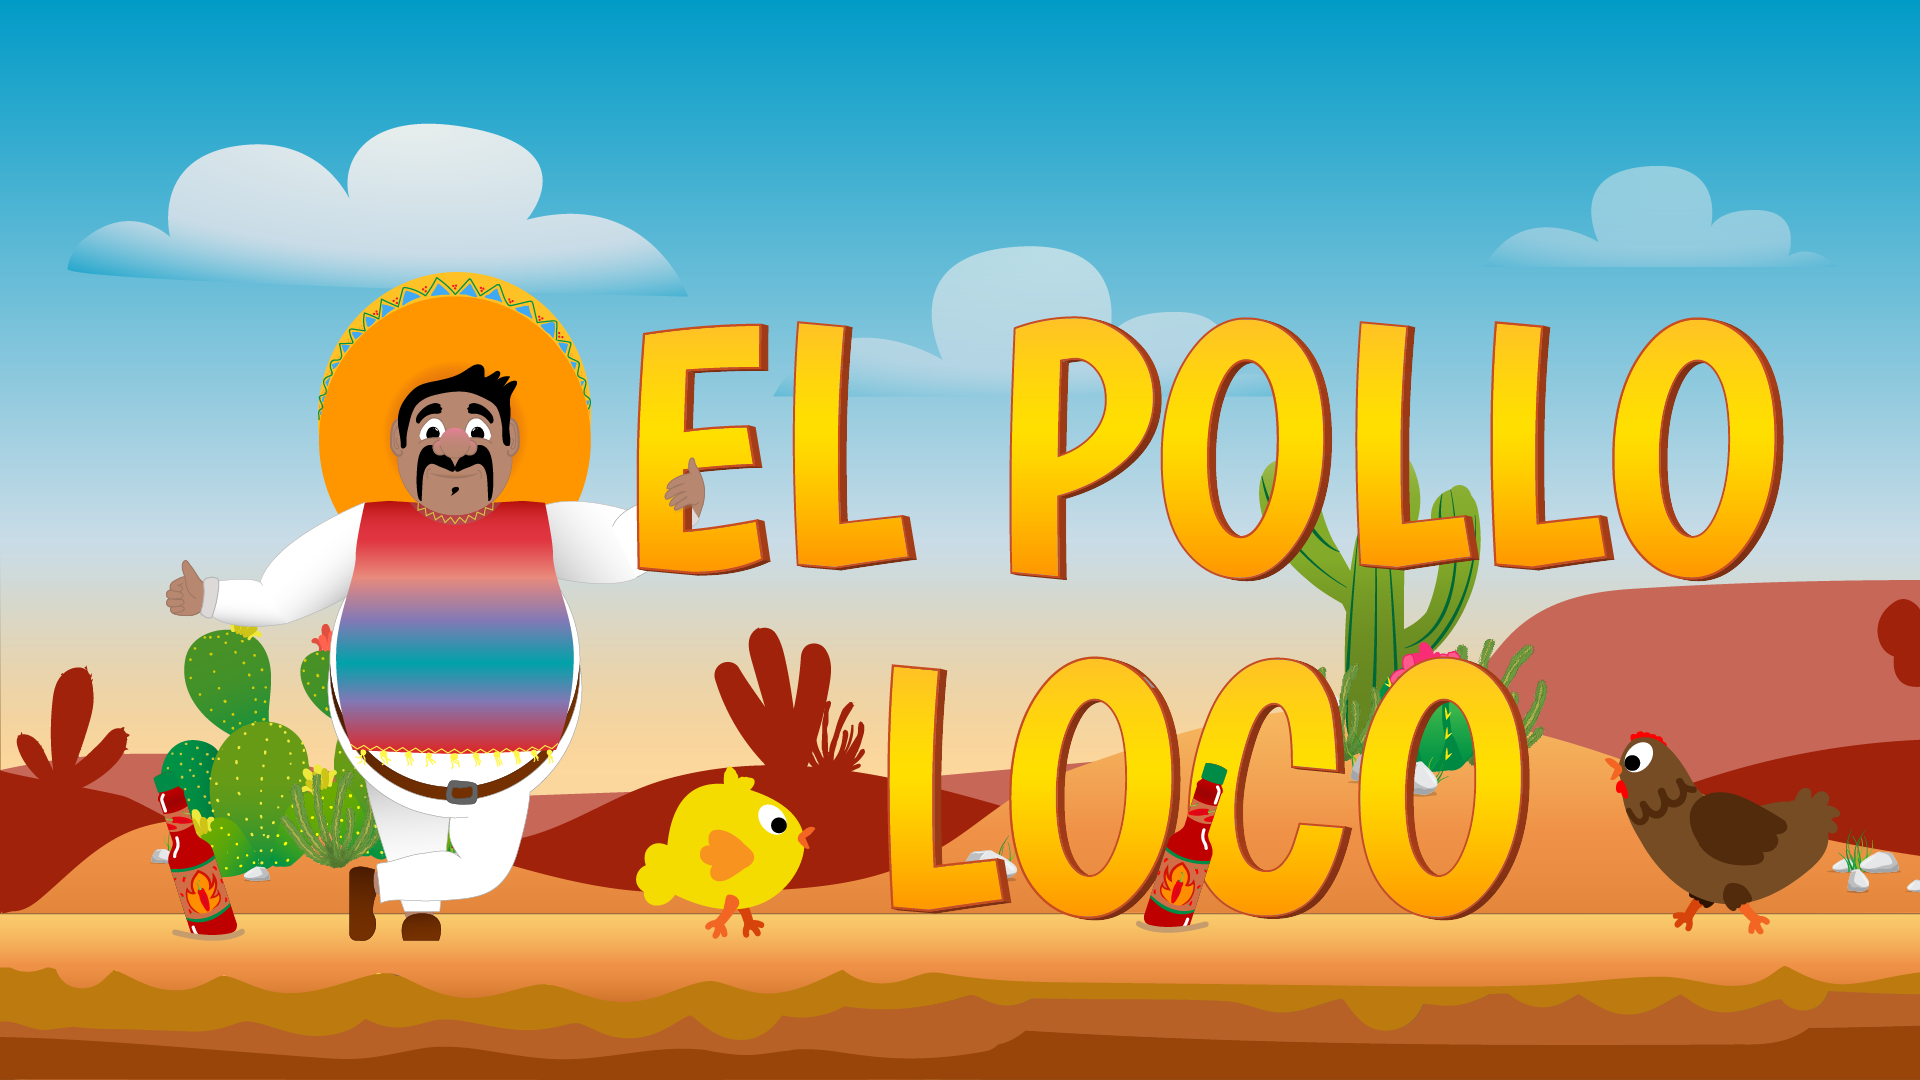
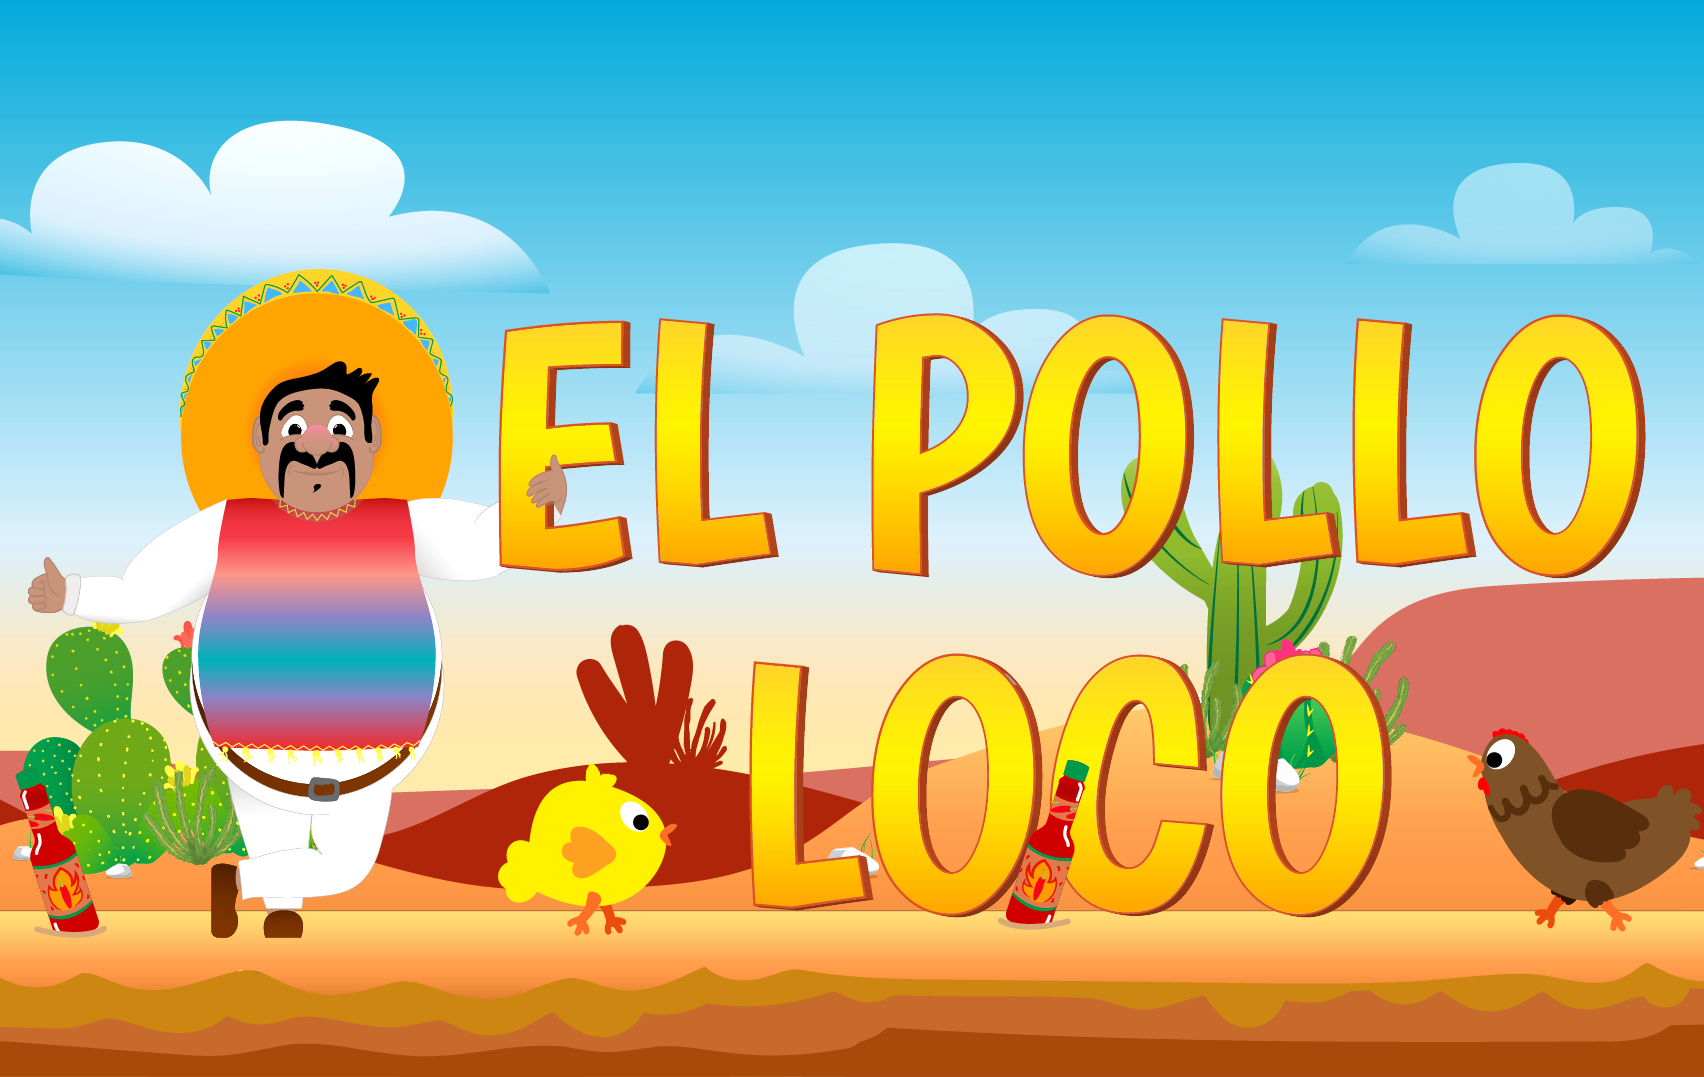
The start page is now updated, designed, and functional!

diff --git a/index.html b/index.html
@@ -1,35 +1,56 @@
 <!DOCTYPE html>
 <html lang="en">
-  <head>
-    <meta charset="UTF-8" />
-    <meta name="viewport" content="width=device-width, initial-scale=1.0" />
-    <title>El Pollo Loco</title>
-    <link rel="stylesheet" href="./style.css" />
-    <script src="./models/drawable-object.class.js"></script>
-    <script src="./models/bottle-status-bar.class.js"></script>
-    <script src="./models/coins-status-bar.class.js"></script>
-    <script src="./models/status-bar.class.js"></script>
-    <script src="./models/endboss-status-bar.class.js"></script>
-    <script src="./models/movable-object.class.js"></script>
-    <script src="./models/coins-collection.class.js"></script>
-    <script src="./models/bottle-collection.class.js"></script>
-    <script src="./models/throwable-object.class.js"></script>
-    <script src="./models/character.class.js"></script>
-    <script src="./models/chicken.class.js"></script>
-    <script src="./models/chicken-small.class.js"></script>
-    <script src="./models/cloud.class.js"></script>
-    <script src="./models/background-object.class.js"></script>
-    <script src="./models/Keyboard.class.js"></script>
-    <script src="./models/level.class.js"></script>
-    <script src="./models/world.class.js"></script>
-    <script src="./models/endboss.class.js"></script>
 
-    <script src="./levels/level1.js"></script>
-    <script src="./js/game.js"></script>
-  </head>
-  <body onload="init()">
-    <h1>El Pollo Loco</h1>
+<head>
+  <meta charset="UTF-8" />
+  <meta name="viewport" content="width=device-width, initial-scale=1.0" />
+  <title>El Pollo Loco</title>
+  <link rel="stylesheet" href="./style.css" />
+  <script src="./models/drawable-object.class.js"></script>
+  <script src="./models/bottle-status-bar.class.js"></script>
+  <script src="./models/coins-status-bar.class.js"></script>
+  <script src="./models/status-bar.class.js"></script>
+  <script src="./models/endboss-status-bar.class.js"></script>
+  <script src="./models/movable-object.class.js"></script>
+  <script src="./models/coins-collection.class.js"></script>
+  <script src="./models/bottle-collection.class.js"></script>
+  <script src="./models/throwable-object.class.js"></script>
+  <script src="./models/character.class.js"></script>
+  <script src="./models/chicken.class.js"></script>
+  <script src="./models/chicken-small.class.js"></script>
+  <script src="./models/cloud.class.js"></script>
+  <script src="./models/background-object.class.js"></script>
+  <script src="./models/Keyboard.class.js"></script>
+  <script src="./models/level.class.js"></script>
+  <script src="./models/world.class.js"></script>
+  <script src="./models/endboss.class.js"></script>
 
-    <canvas id="canvas" width="720px" height="480px"> </canvas>
-  </body>
+  <script src="./levels/level1.js"></script>
+  <script src="./js/game.js"></script>
+</head>
+
+<body>
+  <h1>El Pollo Loco</h1>
+
+  <div id="menu">
+    <div class="startContainer">
+      <div class="start-img-bg">
+
+ 
+      <button class="start-BTN secondery-bg" onclick="startGame()"><span>privacy policy</span></button>
+
+      <button class="start-BTN" onclick="startGame()"><span>PLAY</span></button>
+
+      <button class="start-BTN secondery-bg" onclick="startGame()"><span>About Game</span></button>
+
+      </div>
+    </div>
+    
+  </div>
+
+
+  <canvas id="canvas" width="720px" height="480px" style="display:none;"></canvas>
+
+</body>
+
 </html>

diff --git a/js/game.js b/js/game.js
@@ -7,47 +7,69 @@ function init() {
     world = new World(canvas, keyboard);
 }
 
-window.addEventListener('keydown', (e) => {
-    if (e.code == "ArrowRight") {
-        keyboard.RIGHT = true;
-    }
-    if (e.code == "ArrowLeft") {
-        keyboard.LEFT = true;
-    }
-    if (e.code == "ArrowUp") {
-        keyboard.UP = true;
-    }
-    if (e.code == "ArrowDown") {
-        keyboard.DOWN = true;
-    }
-    if (e.code == "Space") {
-        keyboard.SPACE = true;
-    }
 
-    if (e.code == "KeyD") {
-        keyboard.D = true;
+function startGame() {
+    const menu = document.getElementById('menu');
+    const canvas = document.getElementById('canvas');
+
+    if (menu && canvas) {
+        menu.style.display = 'none';
+        canvas.style.display = 'block';
+
+
+        init();
+    } else {
+        console.error('Menu or canvas element not found');
     }
+}
+
+
+document.addEventListener('DOMContentLoaded', function () {
+    window.addEventListener('keydown', (e) => {
+        if (e.code == "ArrowRight") {
+            keyboard.RIGHT = true;
+        }
+        if (e.code == "ArrowLeft") {
+            keyboard.LEFT = true;
+        }
+        if (e.code == "ArrowUp") {
+            keyboard.UP = true;
+        }
+        if (e.code == "ArrowDown") {
+            keyboard.DOWN = true;
+        }
+        if (e.code == "Space") {
+            keyboard.SPACE = true;
+        }
+        if (e.code == "KeyD") {
+            keyboard.D = true;
+        }
+    });
+
+    window.addEventListener('keyup', (e) => {
+        if (e.code == "ArrowRight") {
+            keyboard.RIGHT = false;
+        }
+        if (e.code == "ArrowLeft") {
+            keyboard.LEFT = false;
+        }
+        if (e.code == "ArrowUp") {
+            keyboard.UP = false;
+        }
+        if (e.code == "ArrowDown") {
+            keyboard.DOWN = false;
+        }
+        if (e.code == "Space") {
+            keyboard.SPACE = false;
+        }
+        if (e.code == "KeyD") {
+            keyboard.D = false;
+        }
+    });
 });
 
-window.addEventListener('keyup', (e) => {
-    if (e.code == "ArrowRight") {
-        keyboard.RIGHT = false;
-    }
-    if (e.code == "ArrowLeft") {
-        keyboard.LEFT = false;
-    }
-    if (e.code == "ArrowUp") {
-        keyboard.UP = false;
-    }
-    if (e.code == "ArrowDown") {
-        keyboard.DOWN = false;
-    }
-    if (e.code == "Space") {
-        keyboard.SPACE = false;
-    }
 
-    if (e.code == "KeyD") {
-        keyboard.D = false;
-    }
-});
-
+const startButton = document.getElementById('startButton');
+if (startButton) {
+    startButton.addEventListener('click', startGame);
+}

diff --git a/style.css b/style.css
@@ -11,6 +11,7 @@ h1 {
     color: white;
     text-shadow: 2px 2px 4px #000000;
     text-transform: uppercase;
+    margin-bottom: 32px;
 }
 
 
@@ -18,4 +19,84 @@ canvas {
     background-color: black;
     box-shadow: 0px 0px 20px rgba(0, 0, 0, 1);
     border-radius: 6px;
+}
+
+.startContainer {
+    display: flex;
+    justify-content: center;
+    align-items: center;
+    min-height: 90px;
+}
+
+.start-img-bg {
+    display: flex;
+    justify-content: space-between;
+    align-items: flex-end;
+    border-radius: 6px;
+    box-shadow: 0px 0px 20px rgba(0, 0, 0, 1);
+    width: 720px;
+    height: 480px;
+    background-image: url(./img/9_intro_outro_screens/start/startscreen_2.png);
+    background-position: center;
+    background-size: contain;
+    background-position-y: 0px;
+
+}
+
+
+.start-BTN {
+    flex: 1;
+    padding-top: 32px;
+    padding-bottom: 32px;
+    padding-left: 28px;
+    padding-right: 28px;
+    border: none;
+    outline: none;
+    background: #0FFF00;
+    background: linear-gradient(180deg, rgba(15, 255, 0, 1) 0%, rgba(8, 115, 0, 1) 100%);
+    color: rgb(0, 0, 0);
+    text-transform: uppercase;
+    font-weight: 700;
+    font-size: 18px;
+    transition: all 0.25s ease-in-out;
+    display: inline-block;
+    position: relative;
+    overflow: hidden;
+    transition: all 0.25s ease-in-out;
+    border-radius: 6px 6px 0px 0px;
+}
+
+.start-BTN::after {
+    content: "";
+    position: absolute;
+    bottom: 0;
+    left: 0;
+    width: 100%;
+    height: 6px;
+    background-color: #0FFF00;
+    transform: scaleX(0);
+    transform-origin: bottom right;
+    transition: transform 0.3s ease-in-out;
+}
+
+.start-BTN:hover::after {
+    transform: scaleX(1);
+    transform-origin: bottom left;
+}
+
+.start-BTN:hover {
+    color: white;
+    box-shadow: 0px 12px 24px rgba(0, 0, 0, 0.2);
+}
+
+.secondery-bg {
+    background: #ff8800;
+    background: linear-gradient(180deg, rgba(255, 136, 0, 1) 0%, rgba(120, 42, 0, 1) 100%);
+    padding-top: 27px;
+    padding-bottom: 27px;
+    border-radius: 0px 0px 0px 0px;
+}
+
+.secondery-bg::after {
+    background-color: #ff8800;
 }
